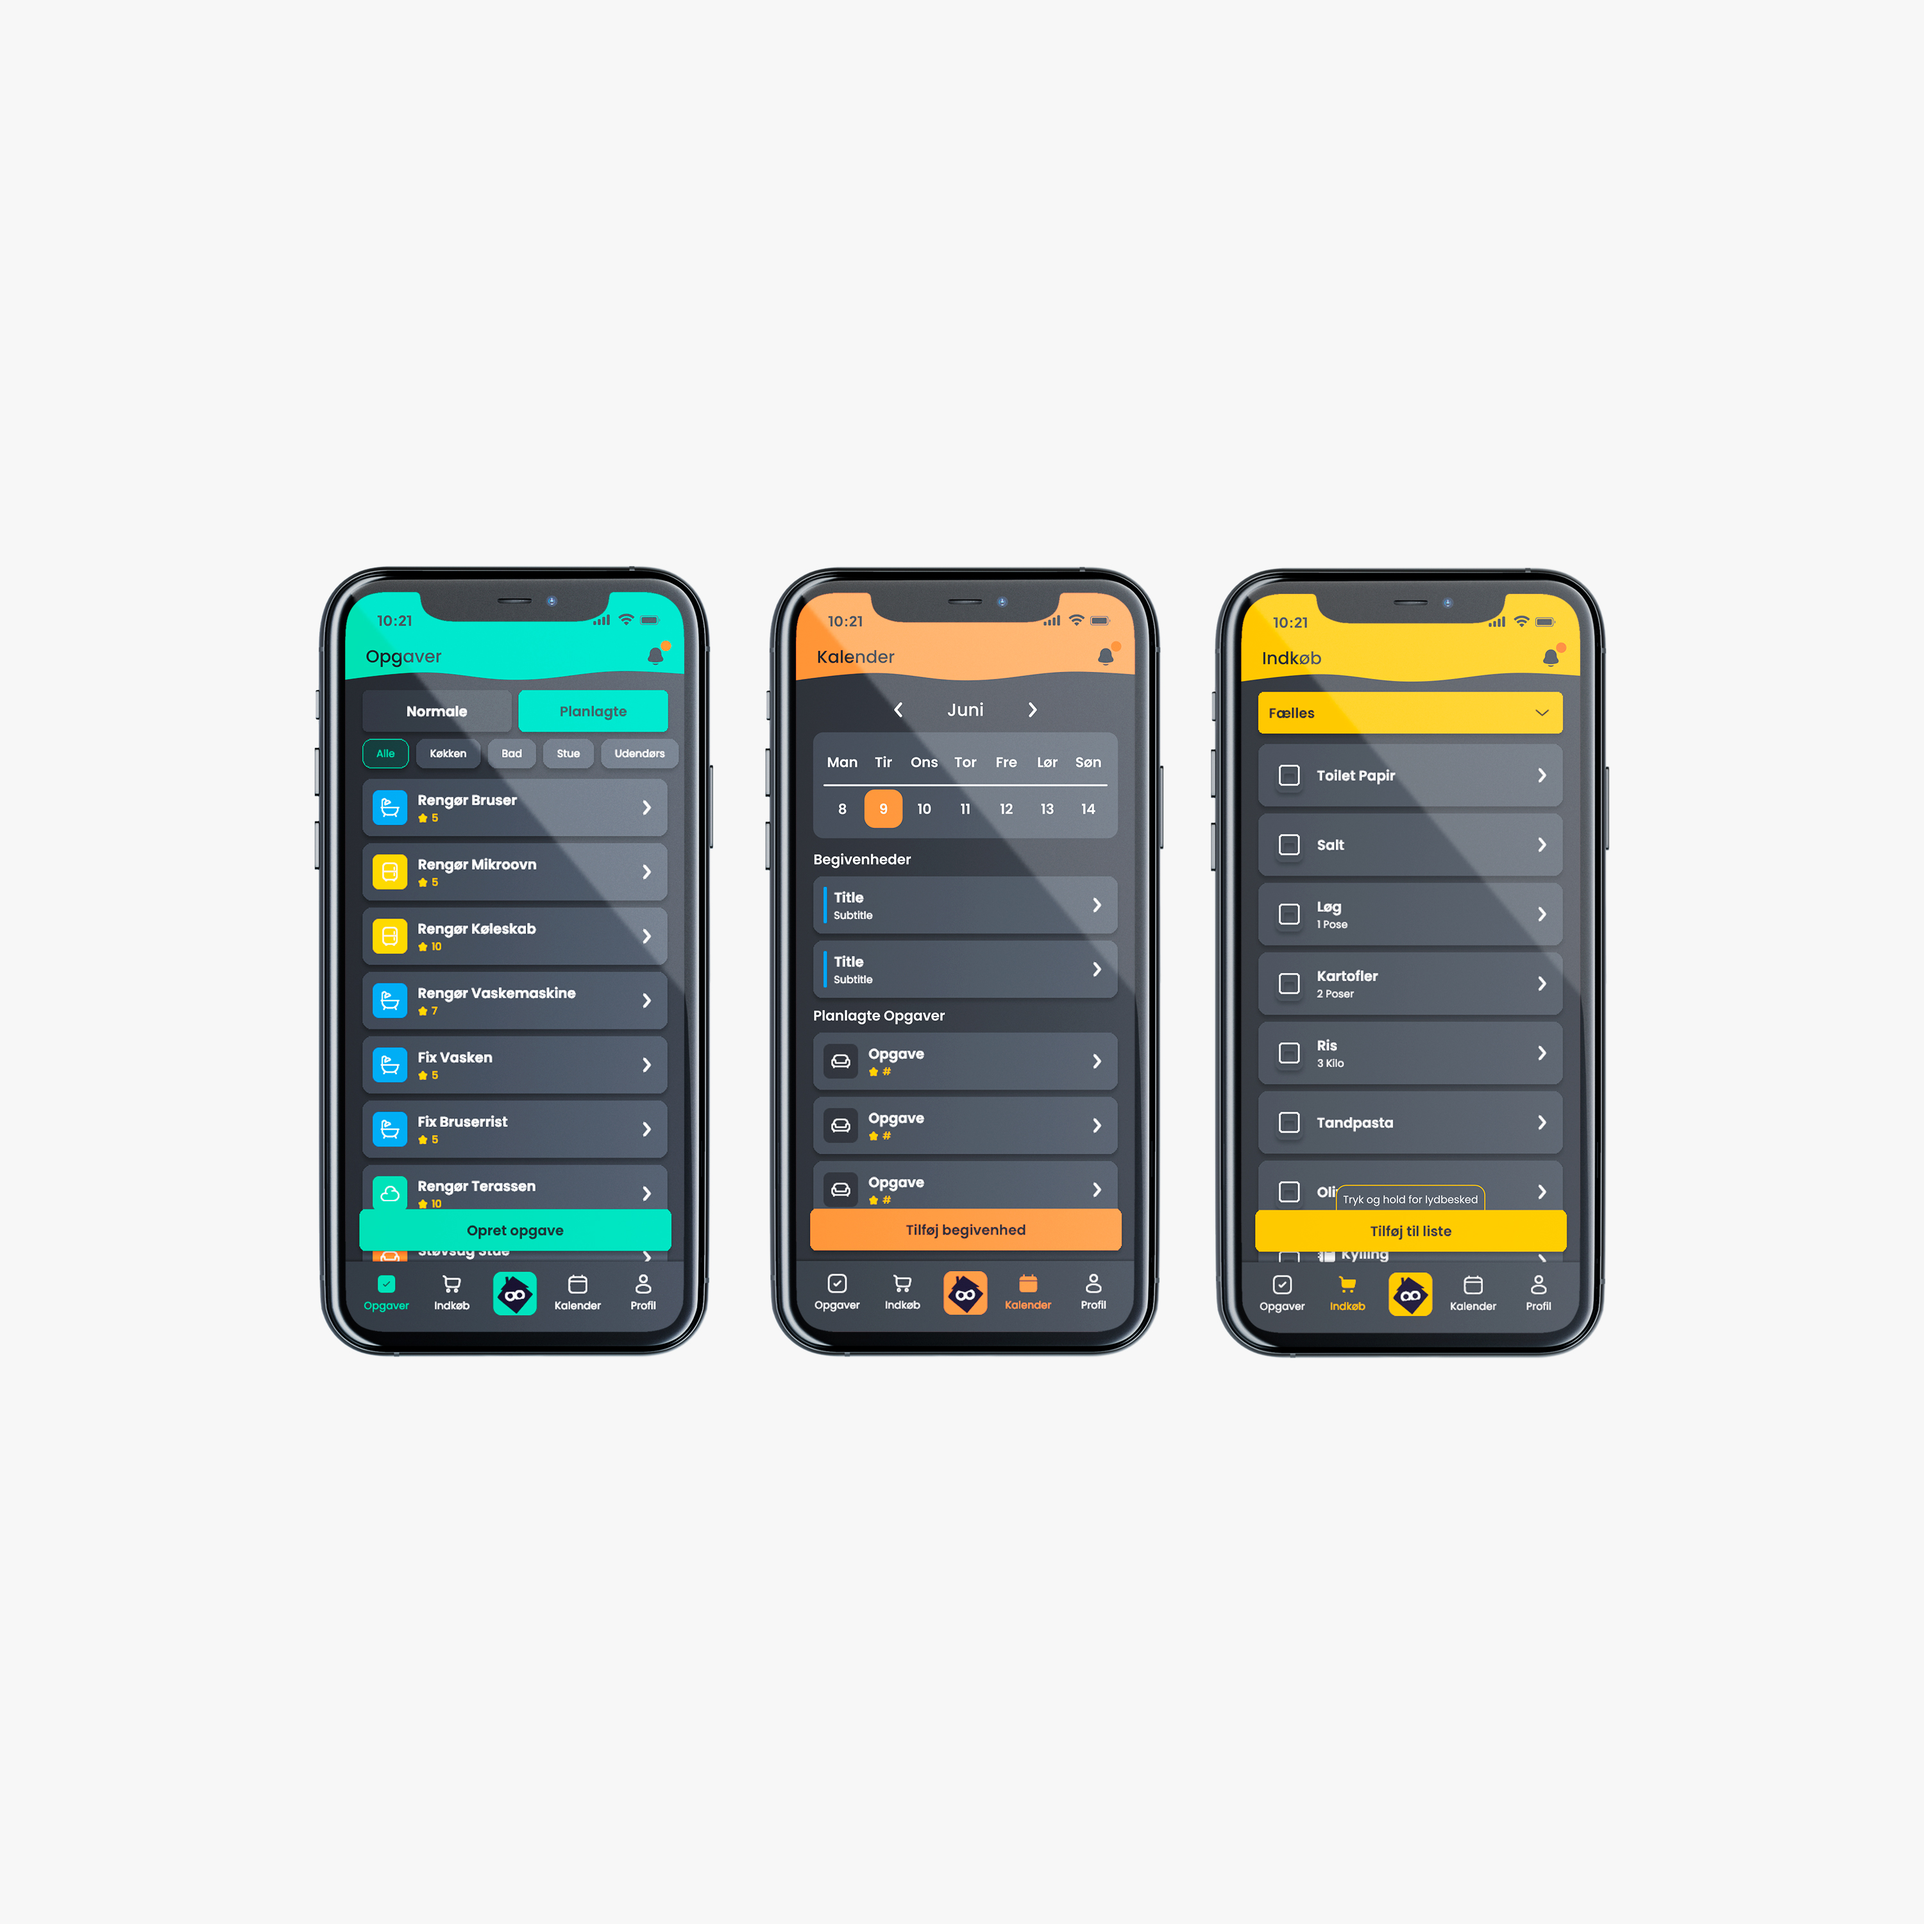
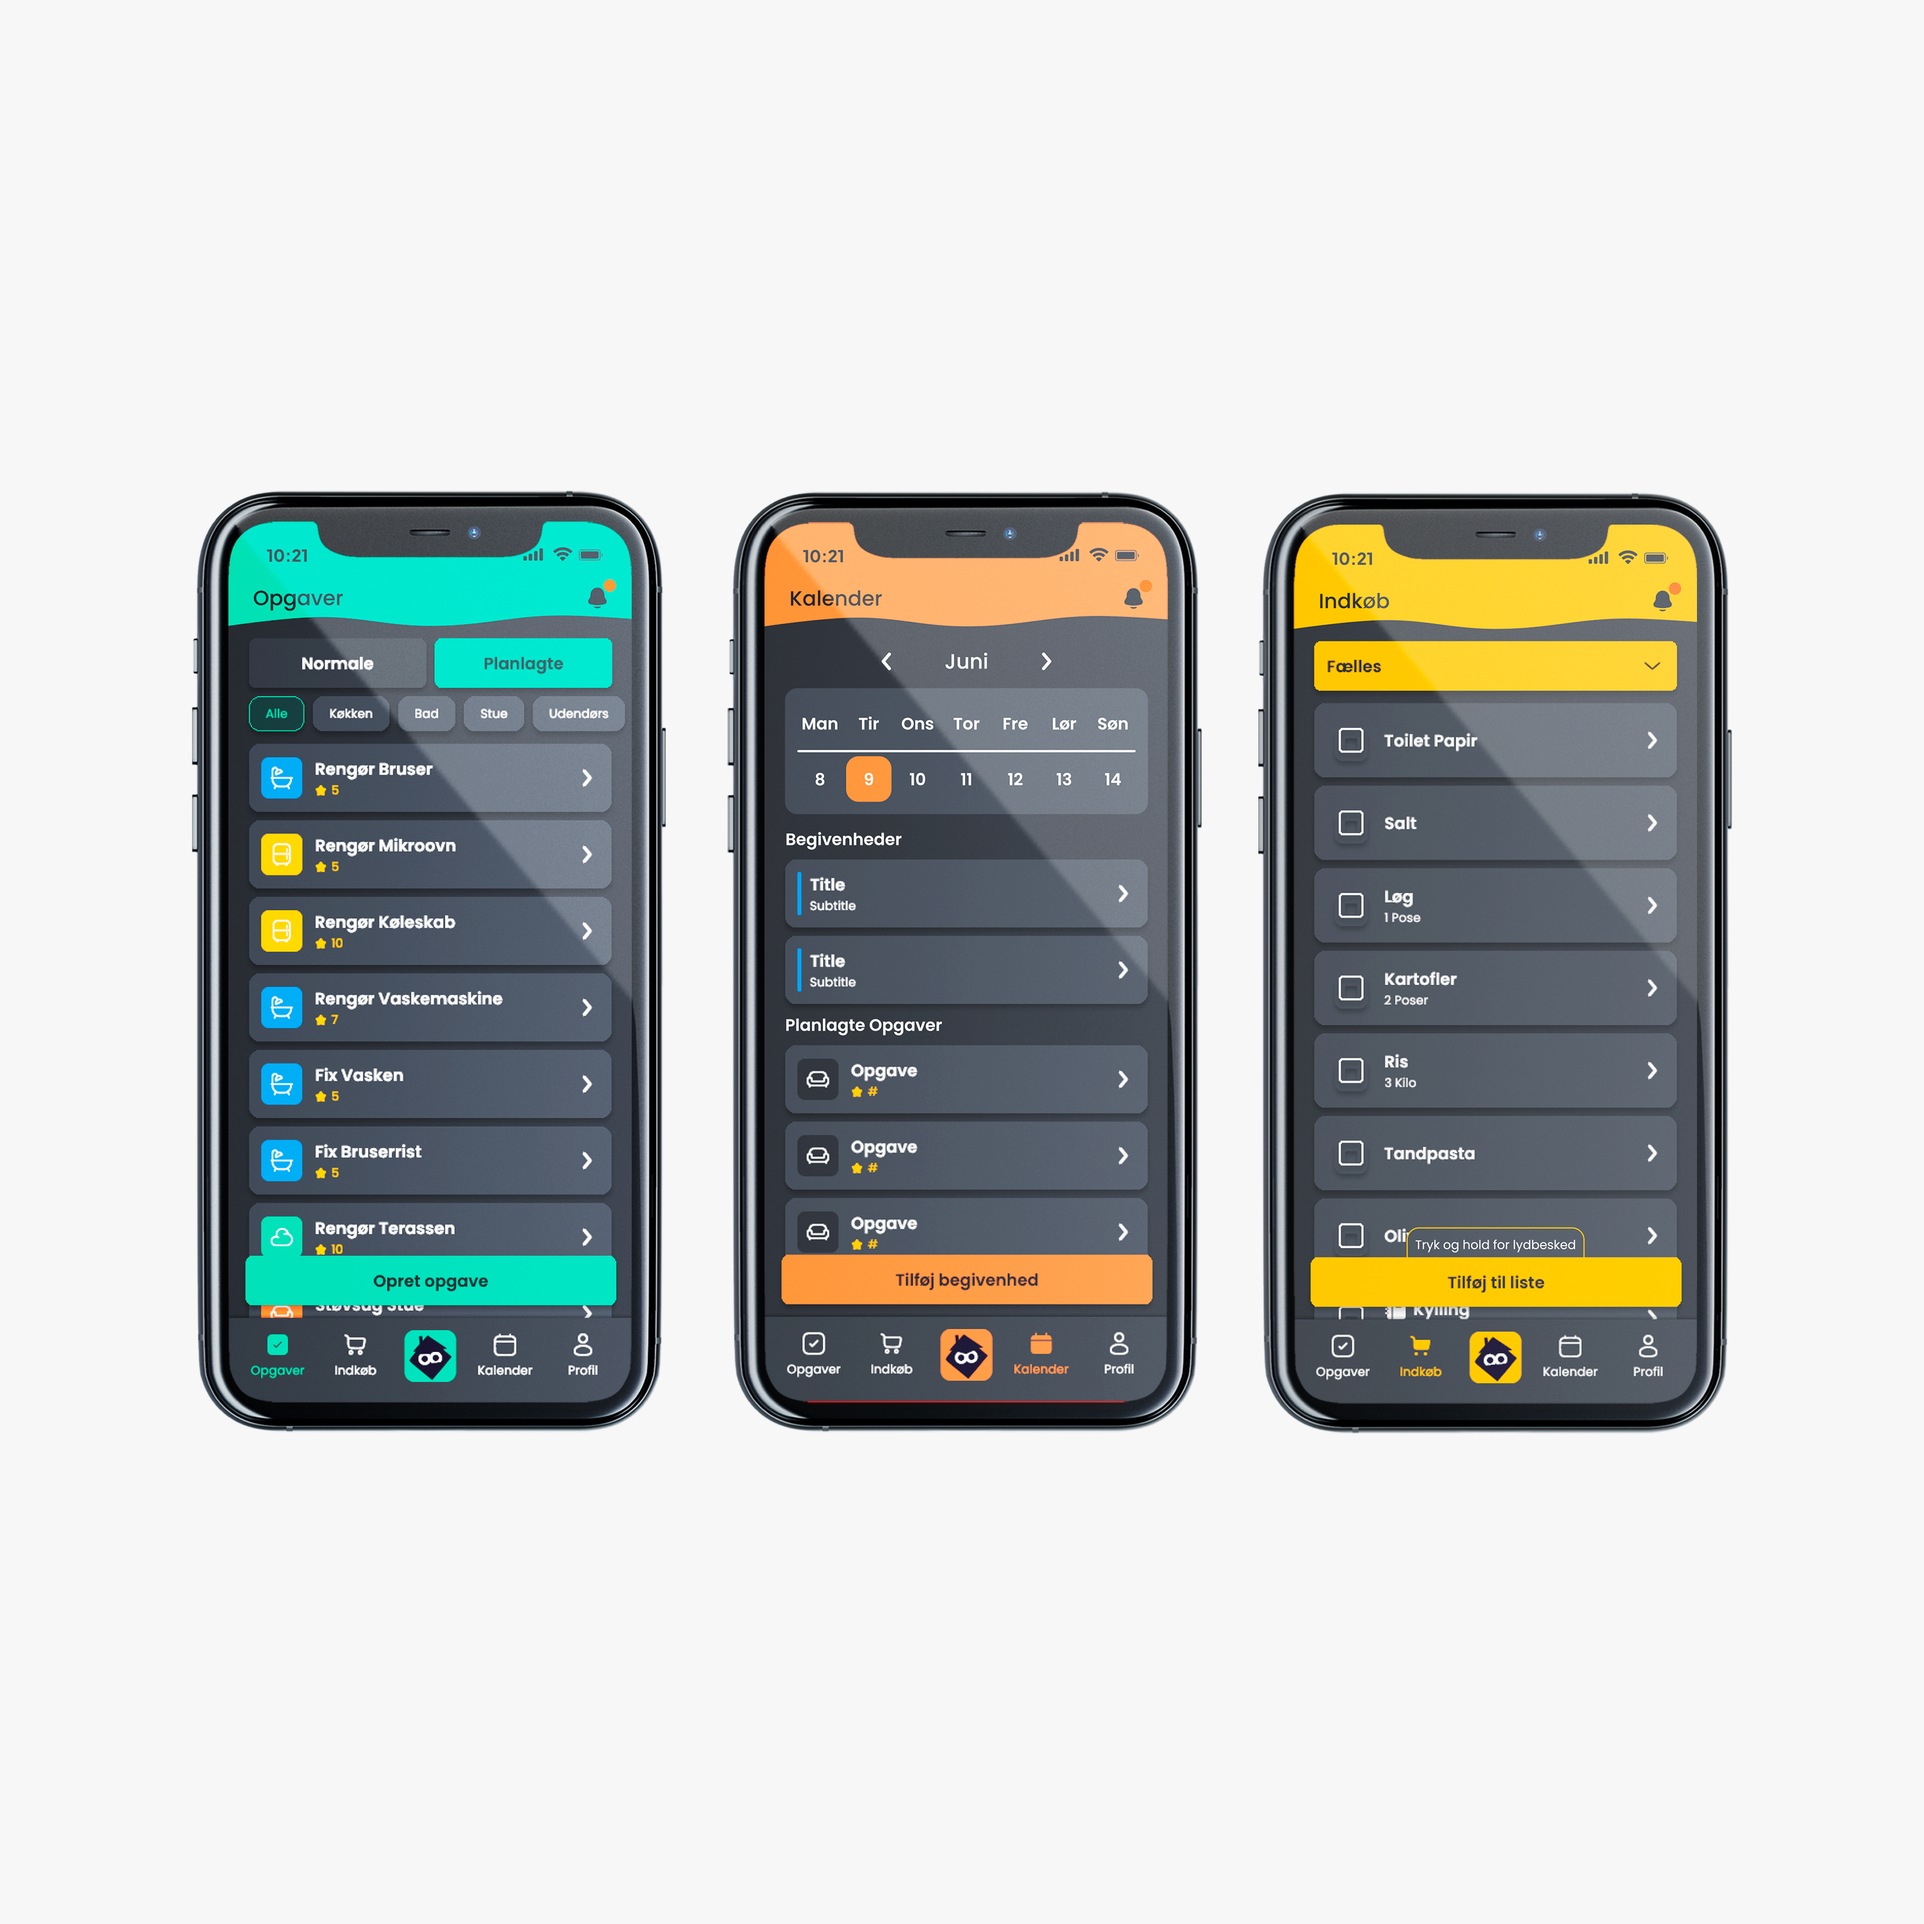
Format tags in projects.js for improved readability

Changed region(s): [[0.093, 0.248, 0.899, 0.744]]

diff --git a/src/data/projects.js b/src/data/projects.js
@@ -7,7 +7,14 @@ const projects = [
       "Webapp i mobil-first design, som samler opgaver, indkøb og planer under samme tag.",
     description:
       "Hoomie er en app, der hjælper roommates med at organisere deres hverdag og holde styr på opgaver, indkøb, planer m.m. Redigér, slet og tilføj opgaver, og få et overblik over, hvem der har gjort hvad. Appen er bygget med React og Vite, og er hostet på GitHub Pages.",
-    tags: ["React & Vite", "Web Application", "CRUD", "Figma", "React Router", "Supabase"],
+    tags: [
+      "React & Vite",
+      "Web Application",
+      "CRUD",
+      "Figma",
+      "React Router",
+      "Supabase",
+    ],
     image: `${import.meta.env.BASE_URL}hoomie-mockup.jpg`,
     detailImages: [
       `${import.meta.env.BASE_URL}hoomie-mockup.jpg`,
